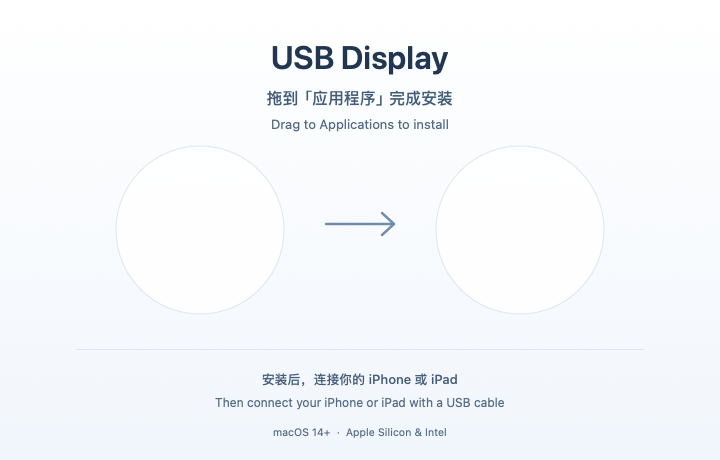
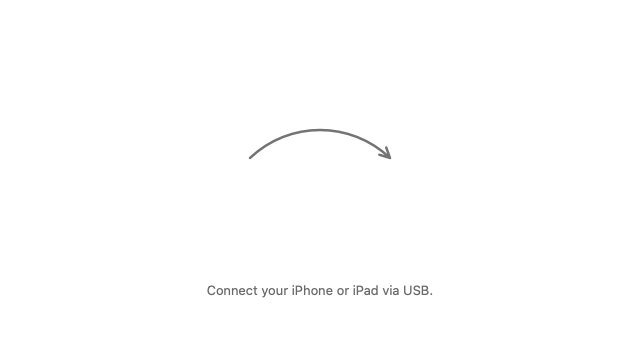
Simplify the installer to a white arc preview
Improvements

- Replace decorative installer artwork with a flat circular arrow and concise English USB guidance.
- Use a compact icon layout with verified footer clearance.
- Record the local preview, native visual checks, and preserved app signing without changing published downloads.

diff --git a/script/generate_dmg_background.swift b/script/generate_dmg_background.swift
@@ -1,11 +1,11 @@
 import AppKit
 
 // Finder supplies the real draggable app/folder icons. This artwork only draws
-// the installation guidance and background at a 720-by-460-point logical size.
+// a flat curved arrow and the requested footer on a plain white canvas.
 let output = URL(fileURLWithPath: CommandLine.arguments.dropFirst().first ?? "Packaging/DMG")
 try FileManager.default.createDirectory(at: output, withIntermediateDirectories: true)
-let width: CGFloat = 720
-let height: CGFloat = 460
+let width: CGFloat = 640
+let height: CGFloat = 360
 
 func color(_ hex: UInt32, alpha: CGFloat = 1) -> NSColor {
   NSColor(
@@ -41,44 +41,34 @@ for scale in [1, 2] {
   // bitmap.size establishes logical points; NSGraphicsContext supplies the
   // backing scale. Applying another scale here would crop the Retina artwork.
 
-  NSGradient(colors: [color(0xFFFFFF), color(0xF1F6FC)])!
-    .draw(in: NSRect(x: 0, y: 0, width: width, height: height), angle: -90)
+  NSColor.white.setFill()
+  NSRect(x: 0, y: 0, width: width, height: height).fill()
 
-  // Quiet pools of white keep both native icons distinct from the blue-gray base.
-  for center in [CGFloat(200), CGFloat(520)] {
-    let ring = NSBezierPath(ovalIn: rect(center - 84, 146, 168, 168))
-    color(0xFFFFFF, alpha: 0.84).setFill()
-    ring.fill()
-    color(0xDDE7F2).setStroke()
-    ring.lineWidth = 1
-    ring.stroke()
-  }
-
-  text("USB Display", top: 38, size: 32, weight: .semibold, ink: 0x213650)
-  text("拖到「应用程序」完成安装", top: 89, size: 16, weight: .medium, ink: 0x435D79)
-  text("Drag to Applications to install", top: 116, size: 13, weight: .regular, ink: 0x526A83)
-
+  let halfSpan: CGFloat = 70
+  let rise: CGFloat = 28
+  let radius = (halfSpan * halfSpan + rise * rise) / (2 * rise)
+  let center = NSPoint(x: 320, y: height - (158 + radius - rise))
+  let endAngle = atan2(radius - rise, halfSpan)
   let arrow = NSBezierPath()
-  arrow.move(to: NSPoint(x: 326, y: height - 224))
-  arrow.line(to: NSPoint(x: 394, y: height - 224))
-  arrow.move(to: NSPoint(x: 382, y: height - 213))
-  arrow.line(to: NSPoint(x: 394, y: height - 224))
-  arrow.line(to: NSPoint(x: 382, y: height - 235))
+  arrow.appendArc(
+    withCenter: center, radius: radius,
+    startAngle: 180 - endAngle * 180 / .pi,
+    endAngle: endAngle * 180 / .pi, clockwise: true)
+
+  let tip = NSPoint(x: 390, y: height - 158)
+  let direction = NSPoint(x: sin(endAngle), y: -cos(endAngle))
+  let normal = NSPoint(x: -direction.y, y: direction.x)
+  let back = NSPoint(x: tip.x - 10 * direction.x, y: tip.y - 10 * direction.y)
+  arrow.move(to: NSPoint(x: back.x + 5 * normal.x, y: back.y + 5 * normal.y))
+  arrow.line(to: tip)
+  arrow.line(to: NSPoint(x: back.x - 5 * normal.x, y: back.y - 5 * normal.y))
   arrow.lineWidth = 2.5
   arrow.lineCapStyle = .round
   arrow.lineJoinStyle = .round
-  color(0x708CA9).setStroke()
+  color(0x737373).setStroke()
   arrow.stroke()
 
-  color(0xDDE6F0).setFill()
-  rect(76, 349, width - 152, 1).fill()
-  text("安装后，连接你的 iPhone 或 iPad", top: 371, size: 13, weight: .medium, ink: 0x435D79)
-  text(
-    "Then connect your iPhone or iPad with a USB cable", top: 395, size: 12,
-    weight: .regular, ink: 0x526A83)
-  text(
-    "macOS 14+  ·  Apple Silicon & Intel", top: 426, size: 10.5,
-    weight: .regular, ink: 0x526A83)
+  text("Connect your iPhone or iPad via USB.", top: 282, size: 13, weight: .regular, ink: 0x696969)
 
   NSGraphicsContext.restoreGraphicsState()
   let suffix = scale == 1 ? "" : "@2x"

diff --git a/script/dmg_settings.py b/script/dmg_settings.py
@@ -11,7 +11,7 @@ files = [str(app)]
 symlinks = {"Applications": "/Applications"}
 icon = str(app / "Contents" / "Resources" / "AppIcon.icns")
 background = str(artwork / "background.png")
-window_rect = ((180, 140), (720, 552))
+window_rect = ((180, 140), (640, 452))
 default_view = "icon-view"
 show_status_bar = False
 show_tab_view = False
@@ -22,7 +22,7 @@ icon_size = 112
 text_size = 13
 label_pos = "bottom"
 arrange_by = None
-icon_locations = {"USB Display.app": (200, 226), "Applications": (520, 226)}
+icon_locations = {"USB Display.app": (180, 158), "Applications": (460, 158)}
 # FinderInfo changes on an already signed app fail strict code-signature checks.
 # Keep the bundle untouched; Finder owns extension visibility for the user.
 hide_extensions = []

diff --git a/doc/design/dmg-installer.md b/doc/design/dmg-installer.md
@@ -1,26 +1,24 @@
 # DMG installer design
 
-The installation window uses the app's established white and blue-gray palette. It presents one task: drag the real USB Display app onto the real Applications shortcut. The custom background contains guidance, not simulated controls or a second copy of either icon.
+The current working artwork follows the maintainer's revised request: a plain white background, one flat gray circular-arc arrow from the app to Applications, and the English footer `Connect your iPhone or iPad via USB.`. Native app/folder icons and filenames remain Finder-owned. The published 1.0.2 installer retains its previous artwork; this revision is a local preview until reviewed.
 
 ## Composition
 
-- A 720-by-460-point canvas with a quiet white-to-pale-blue background.
-- A centered app name, followed by Chinese and English drag-to-install instructions.
-- Native 112-point app and folder icons centered at `(200, 226)` and `(520, 226)`, with a thin directional arrow between them and restrained circular backings.
-- Small bilingual next-step guidance below a divider, plus minimum macOS/architecture information.
-- Only the app and Applications shortcut are visible in the disk root. Detailed text installation notes remain beside local package outputs; public instructions are also in the README and installation guide.
+- A 640-by-360-point pure-white canvas, with no background gradient, circles, panels, divider, title, device copy, or extra installation instructions.
+- Native 112-point app and folder icons at `(180, 158)` and `(460, 158)`.
+- A single 2.5-point neutral-gray circular arc runs from the app toward Applications, with a tangent arrowhead and rounded ends. It has no filled face, bevel, extrusion, or shadow.
+- The requested footer is centered near the bottom, with its text box starting at `y = 282`. The initial position at `y = 314` touched Finder's path-bar divider during native inspection and was raised for clearance.
+- A 640-by-452-point initial Finder window in icon view. Toolbar/sidebar metadata are hidden; Finder can retain the user's tab/path/status preferences. No global Finder setting is changed.
 
-`script/dmg_settings.py` requests an icon-view Finder window at 720 by 552 points, with toolbar/sidebar/path/status/tab settings disabled in the folder metadata. Finder can override some options with the user's preferences. The extra height accommodates the observed tab/path/status bars without changing global settings. Users can still resize the Finder window themselves.
+The background itself contains only the arrow and the English connection guidance. It is a fixed raster image referenced by Finder metadata and does not select text based on the viewing Mac's system language; English is the maintainer's chosen fallback. Native filenames, volume titles, and Finder chrome are not baked into the artwork and are not renamed or hidden by modifying the signed app.
 
-## Assets and tooling
+## Assets and regeneration
 
-- `Packaging/DMG/background.png`: 720 by 460 pixels at 72 DPI.
-- `Packaging/DMG/background@2x.png`: 1440 by 920 pixels at 144 DPI.
-- `script/generate_dmg_background.swift`: editable native AppKit drawing source.
-- `script/dmg_settings.py`: icon positions, view options, shortcut, volume icon, and artwork selection.
-- `script/requirements-dmg.txt`: exact wheel versions/hashes for `dmgbuild`, `ds-store`, and `mac-alias`.
-
-Regenerate artwork from the repository root with a temporary module cache, then remove that cache:
+- `Packaging/DMG/background.png`: 640 by 360 pixels at 72 DPI.
+- `Packaging/DMG/background@2x.png`: 1280 by 720 pixels at 144 DPI.
+- `script/generate_dmg_background.swift`: editable AppKit drawing source.
+- `script/dmg_settings.py`: icon positions, window/view settings, shortcut, and artwork selection.
+- `script/requirements-dmg.txt`: exact versions and wheel hashes for the release-only DMG tools.
 
 ```bash
 DMG_ART_CACHE=$(mktemp -d "${TMPDIR:-/tmp}/usb-display-art.XXXXXX")
@@ -28,25 +26,15 @@ xcrun swift -module-cache-path "$DMG_ART_CACHE" script/generate_dmg_background.s
 rm -rf "$DMG_ART_CACHE"
 ```
 
-The image representation declares its logical size before creating the graphics context. Do not apply a second Retina transform: AppKit already supplies the backing scale. The two images are combined into a multi-resolution TIFF by the DMG builder.
+`NSBitmapImageRep.size` supplies the logical size; do not add a second Retina scale. The DMG builder combines the standard and Retina images into a multi-resolution TIFF. The package script creates disposable tooling by default or accepts a prepared interpreter through `DMGBUILD_PYTHON`.
 
-The packaging script normally installs the small pinned wheels from PyPI into its own temporary environment and removes it with staging. For an already prepared environment, set `DMGBUILD_PYTHON` to its Python executable. These are release tools, not application/runtime dependencies. Failed packaging removes only that run's newly created incomplete output directory.
+## Signing and validation boundary
 
-## Signing boundary
+Installer artwork and Finder metadata stay outside the signed app. Do not apply `SetFile` or extension-hiding FinderInfo to the app after signing; the earlier attempt failed strict signature checks. The local preview reuses the already notarized 1.0.2 app without changing any app file contents or publishing replacement release assets.
 
-Keep all installer artwork and Finder metadata outside the signed `.app`. Do not use `SetFile` or `hide_extensions` on the app after signing: adding FinderInfo caused strict signature verification to fail during the first preview, even though Gatekeeper still accepted the notarized app. That option is disabled. Finder controls whether the `.app` suffix is visible according to the user's preference.
-
-The final packaging workflow verifies the unmodified app's Developer ID signature and stapled ticket on the source, mounted DMG, and extracted ZIP. The disk image itself is a transport container; separate container notarization is not claimed.
-
-## Design and contrast validation
-
-The existing accepted app icon provided the palette and product context. Apple's installed Xcode 27.2 HIG Layout guidance informed hierarchy and familiar control/content relationships. No Finder-installer-specific Apple skill was available; the exported Apple Sufficient Contrast guidance was used for authored colors, together with the macOS packaging workflow and direct Finder inspection.
-
-Verdict: PASS for the authored background's known colors. Against the darkest background endpoint (`#F1F6FC`), the title (`#213650`) measures 11.32:1; Chinese instruction text (`#435D79`) 6.27:1; English/footer text (`#526A83`) 5.16:1; and the meaningful arrow (`#708CA9`) 3.21:1. The decorative rings/divider are not controls. Native Finder icon labels are owned by the system; broad accessibility/appearance coverage is not certified by this artwork check.
-
-The first preview exposed double Retina scaling and clipped content. After removing the duplicate transform and increasing the stored window height, Finder inspection at 1440-by-1104 screenshot pixels showed complete bilingual instructions/footer, native icons centered in the circles, a visible arrow, readable filename labels, and no overlap, clipping, scrollbars, or unintended empty panel. Toolbar/sidebar were hidden while the host's tab/path/status bars remained visible. No global Finder preferences were changed and no app was installed during inspection.
+Final native Finder inspection confirmed the flat circular arc, two icons, pure-white background, fully visible English footer, and no extra background headings or frames. The exact final preview was opened and left frontmost for the maintainer. Image dimensions/DPI and white-background samples are checked separately. Strict signature, stapled-ticket, and Gatekeeper checks apply to the app inside the preview. This artwork change does not modify app behavior or resolve the existing full-screen test instability.
 
 ## References
 
-- [Apple HIG: Layout](https://developer.apple.com/design/human-interface-guidelines/layout), installed documentation release 2236 / Xcode 27.2.
-- [dmgbuild](https://github.com/dmgbuild/dmgbuild) and its [settings reference](https://dmgbuild.readthedocs.io/en/latest/settings.html), with the installed 1.6.7 implementation checked for file copying and Finder metadata behavior.
+- [Apple HIG: Layout](https://developer.apple.com/design/human-interface-guidelines/layout), installed Xcode 27.2 documentation.
+- [dmgbuild](https://github.com/dmgbuild/dmgbuild) and its [settings reference](https://dmgbuild.readthedocs.io/en/latest/settings.html).

diff --git a/doc/devlog.md b/doc/devlog.md
@@ -1942,3 +1942,33 @@
 
 - The known two full-screen integration failures remain tracked on QUE-24; this installer redesign does not fix or conceal them.
 - Finder may retain user-specific tab/path/status preferences. Older Finder/appearance coverage and a final-image native GUI recheck remain unverified; the corrected preview passed native visual inspection and the final package's matching layout data passed verification.
+
+
+## 2026-11-13 — Simplify the Installer to a White Arc Preview
+
+### Summary
+
+- Apply the maintainer's latest direction: plain white background, one flat circular-arc arrow from the app toward Applications, and only `Connect your iPhone or iPad via USB.` at the bottom. Remove the previous heading, extra copy, circles, divider, background color, and dimensional arrow treatments.
+- Use a compact 640-by-360-point canvas with native 112-point icons at `(180,158)` and `(460,158)`, inside a 640-by-452-point initial Finder window. Raise the footer to clear the observed path-bar divider.
+- Use English for the fixed background image, as requested when runtime system-language selection is unavailable in this static-image workflow. The repository README remains bilingual.
+- Build a local preview containing the exact already-notarized 1.0.2 app. Do not bump the app version, replace published files, or create a GitHub release during this visual iteration. Retain the final preview in `.build/Distribution/USBDisplay-minimal-installer-preview.41qf2yqo/USBDisplay-arc-installer-preview.dmg`.
+
+### Affected Files
+
+- `script/generate_dmg_background.swift` and `script/dmg_settings.py`
+- `Packaging/DMG/background.png` and `background@2x.png`
+- `CHANGELOG.md`, `doc/design/dmg-installer.md`, `doc/current.md`, and `doc/devlog.md`
+- Ignored local preview DMG and its checksum file
+
+### Validation
+
+- Native artwork generation and strict Swift-format lint passed. Standard/Retina images have the expected 640-by-360 and 1280-by-720 sizes; sampled background regions are fully opaque pure white.
+- The final preview passed DMG integrity, saved-layout, complete app-file comparison, strict code-signature, stapled-ticket, and Gatekeeper checks. Gatekeeper reports `Notarized Developer ID`; the app is unchanged from the 1.0.2 signed payload.
+- The first compact footer position touched the Finder path-bar divider; raising it resolved the observed clearance problem. Earlier navigation attempts did not show the revised arrow. Final native inspection opened the exact `USB Display Arc Preview` volume and confirmed a flat gray circular arc, two correctly placed icons, fully visible English footer, and no extra background text, frames, overlap, or clipping. Leave this final preview frontmost for review.
+- Remove obsolete task preview volumes/files and temporary Python tools, Swift module cache, source copies, and logs. Preserve the final preview and the user's existing published-release mounts.
+- Git whitespace checks passed. Application build/unit tests: Not run for this artwork/layout-only iteration; application and test sources and published releases are unchanged.
+
+### Remaining Risks or Follow-up Work
+
+- The revised artwork is a local preview awaiting the maintainer's visual feedback. Public 1.0.2 downloads still contain their original released artwork.
+- Native Finder filenames/bars remain system-owned, and older-OS/appearance coverage remains unverified. Existing app-runtime and test-instability follow-ups are unchanged.

diff --git a/doc/current.md b/doc/current.md
@@ -28,9 +28,9 @@ Both Debug and Release select `AppIcon` and include `AppIcon.icon` in the resour
 
 ### Installer Presentation
 
-The DMG has a white/blue-gray Retina background, matching Chinese/English drag-to-install guidance, aligned native app and Applications icons, and a directional arrow. Only these two targets are visible. A 720-by-552-point initial Finder window uses an icon view and hides toolbar/sidebar metadata; host tab/path/status preferences can remain visible without clipping the artwork. The layout and 1x/2x assets are reproducible from `script/dmg_settings.py` and `script/generate_dmg_background.swift`. See [installer design notes](design/dmg-installer.md).
+The current working installer artwork is an unreleased minimal revision requested after reviewing 1.0.2: a pure-white 640-by-360-point background, one flat gray circular-arc arrow, and only the footer `Connect your iPhone or iPad via USB.`. The fixed background uses English for all system languages, following the maintainer's latest preference. Native 112-point icons are at `(180,158)` and `(460,158)`, with a 640-by-452-point initial Finder window. The footer was raised after an initial preview showed contact with the path-bar divider. No heading, extra instructional paragraphs, circles, or decorative frames remain in the artwork. Native filenames and Finder bars follow the user's settings.
 
-The corrected preview passed direct Finder visual inspection. Final 1.0.2 folder metadata and app contents were checked independently; a second final-image GUI inspection was interrupted by detected user activity and was not completed. The final uses the same verified artwork/positions, with the unsafe post-signing FinderInfo/extension modification removed. Global Finder settings are unchanged.
+The revised local preview is `.build/Distribution/USBDisplay-minimal-installer-preview.41qf2yqo/USBDisplay-arc-installer-preview.dmg`. It reuses the exact notarized 1.0.2 app and has passed image-integrity, identical-app-content, app-signature, stapled-ticket, and Gatekeeper checks. Final native inspection confirmed the circular arc and English footer without overlap or clipping, and the preview remains open for review. No version bump or GitHub release replacement is part of this visual review; public 1.0.2 downloads retain their published artwork. The generator, settings, and 1x/2x assets are described in [installer design notes](design/dmg-installer.md).
 
 ## Current Capabilities
 

diff --git a/CHANGELOG.md b/CHANGELOG.md
@@ -4,7 +4,11 @@ Public releases follow `MAJOR.MINOR.PATCH` versioning. Development builds before
 
 ## Unreleased
 
-No changes scheduled yet. See the [roadmap](doc/roadmap.md) for unscheduled follow-up work.
+### Improvements
+
+- Simplify the installer artwork to a pure-white canvas, one flat circular-arc arrow, and concise English USB connection guidance. Remove the previous heading, explanatory copy, circles, and divider.
+
+This installer revision is currently a local visual preview; published 1.0.2 downloads remain unchanged. See the [roadmap](doc/roadmap.md) for other unscheduled follow-up work.
 
 ## 1.0.2 — 2026-11-13
 
